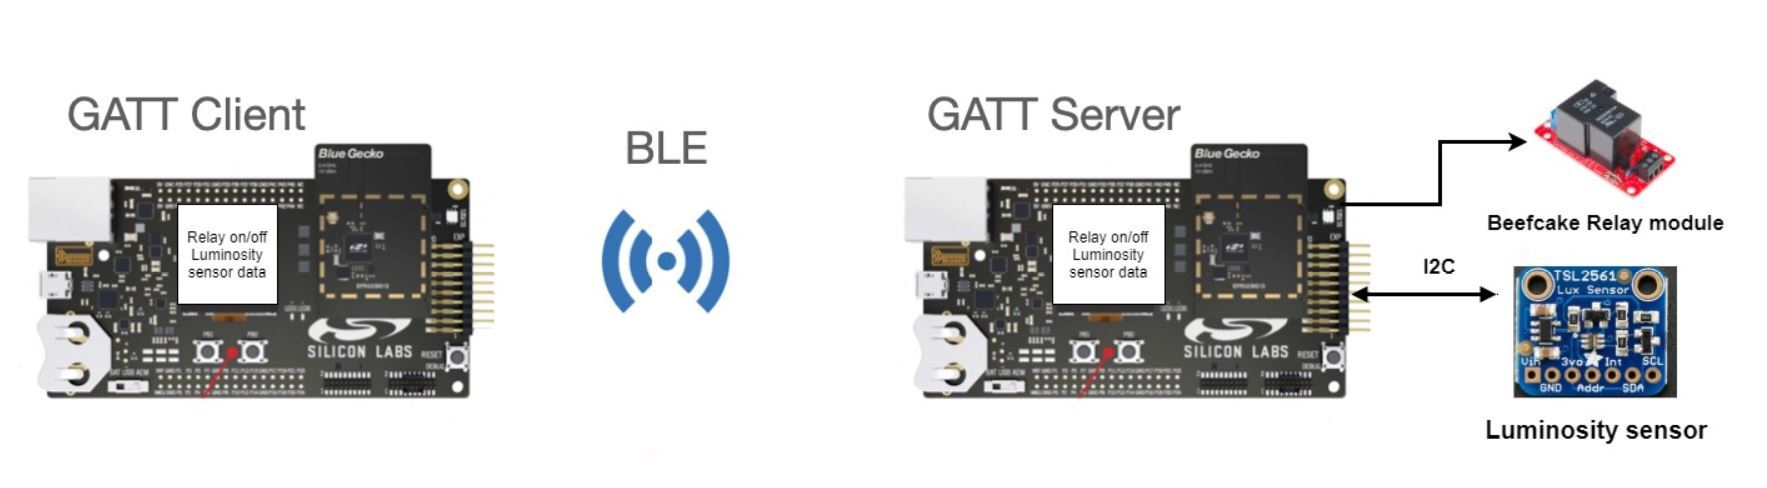
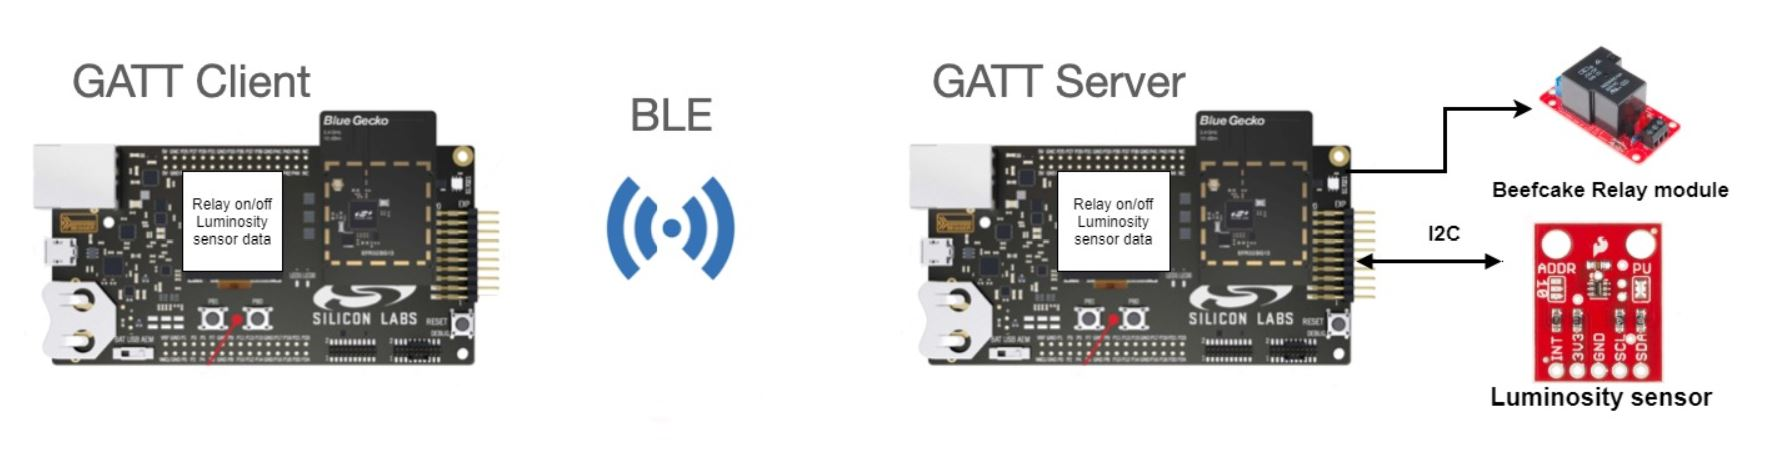
block diagram updated

diff --git a/servercode/src/ble.c b/servercode/src/ble.c
@@ -10,8 +10,8 @@
  * @course      ECEN 5823-001: IoT Embedded Firmware (Fall 2020)
  * @instructor  David Sluiter
  *
- * @assignment ecen5823-assignment5-ruchaborwankar
- * @due        Sep 18, 2020
+ * @assignment server code for final project
+ * @due        Dec 3, 2020
  *
  * @resources  https://www.silabs.com/documents/public/reference-manuals/bluetooth-api-reference.pdf
  *				silicon labs example-soc thermometer
@@ -97,6 +97,7 @@ void handle_ble_event(struct gecko_cmd_packet *evt)
 			            bool_flag=0;
 			          }
 			}*/
+			//for relay service
 			if ((evt->data.evt_gatt_server_characteristic_status.characteristic == gattdb_relay_state)
 									            && (evt->data.evt_gatt_server_characteristic_status.status_flags == gatt_server_client_config))
 			{
@@ -153,6 +154,7 @@ void handle_ble_event(struct gecko_cmd_packet *evt)
 		break;
 
 		case gecko_evt_system_external_signal_id:
+			//for now checking external signal after every 3 sec using letimer
 			LOG_INFO("external_system_signal_id reached\n");
 			if(conn_done==1){
 			if(toggle==1){
